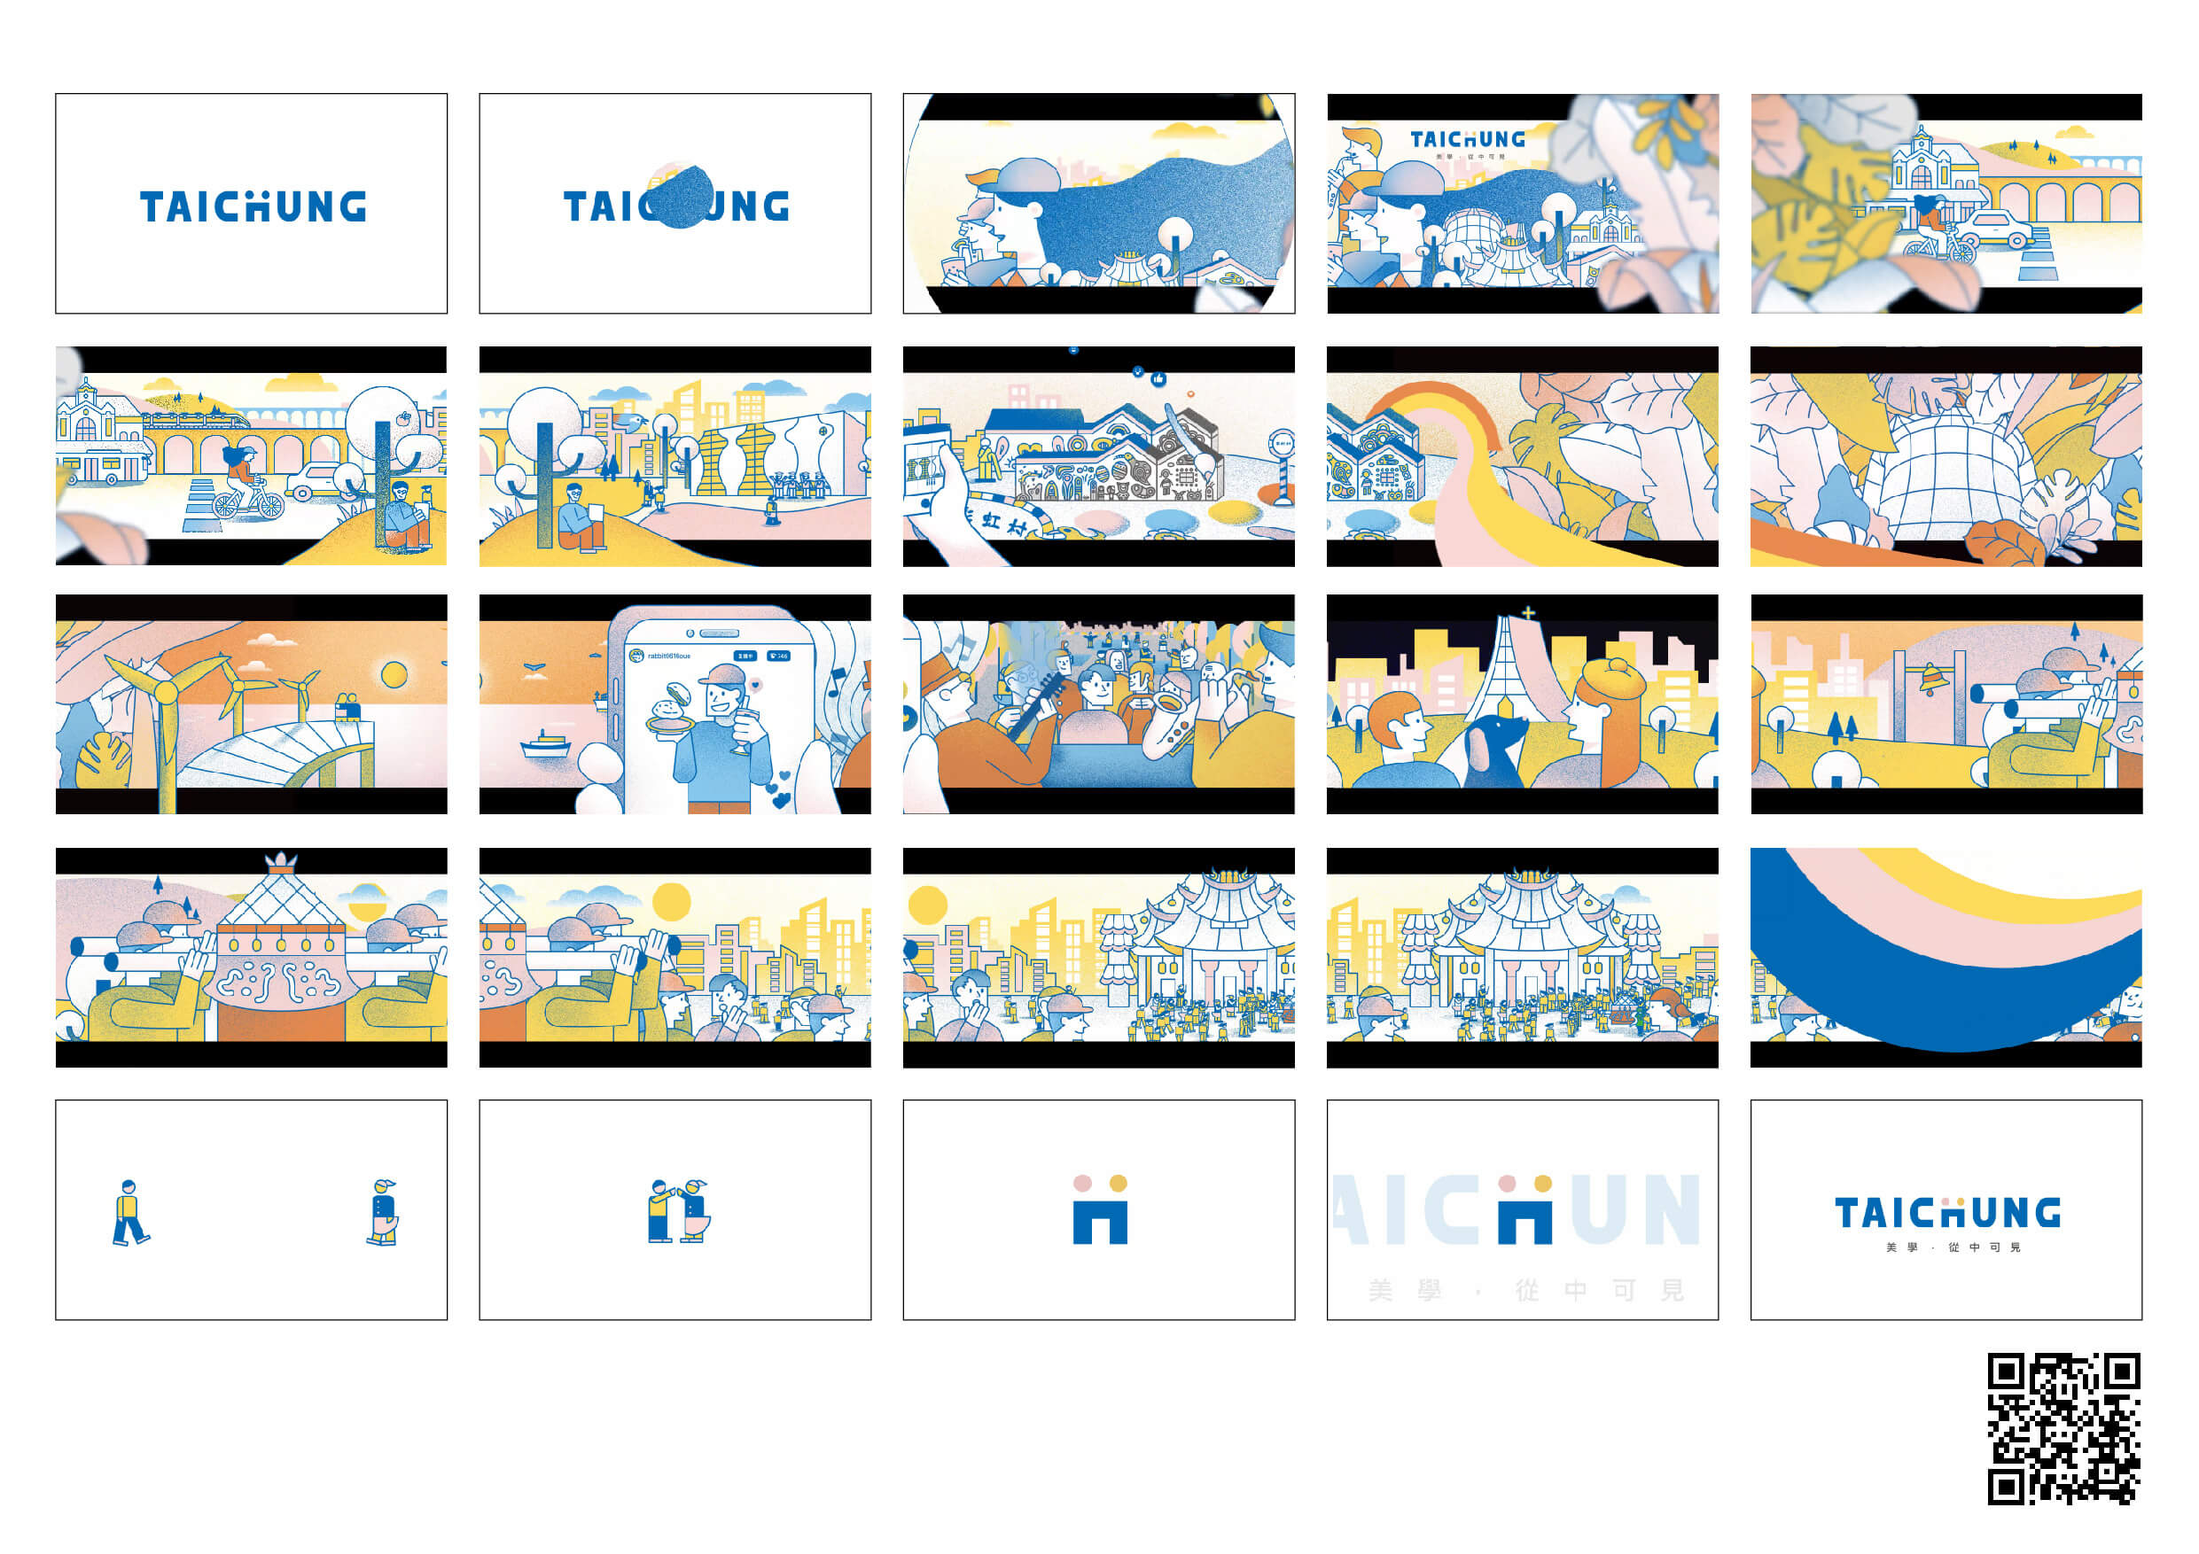
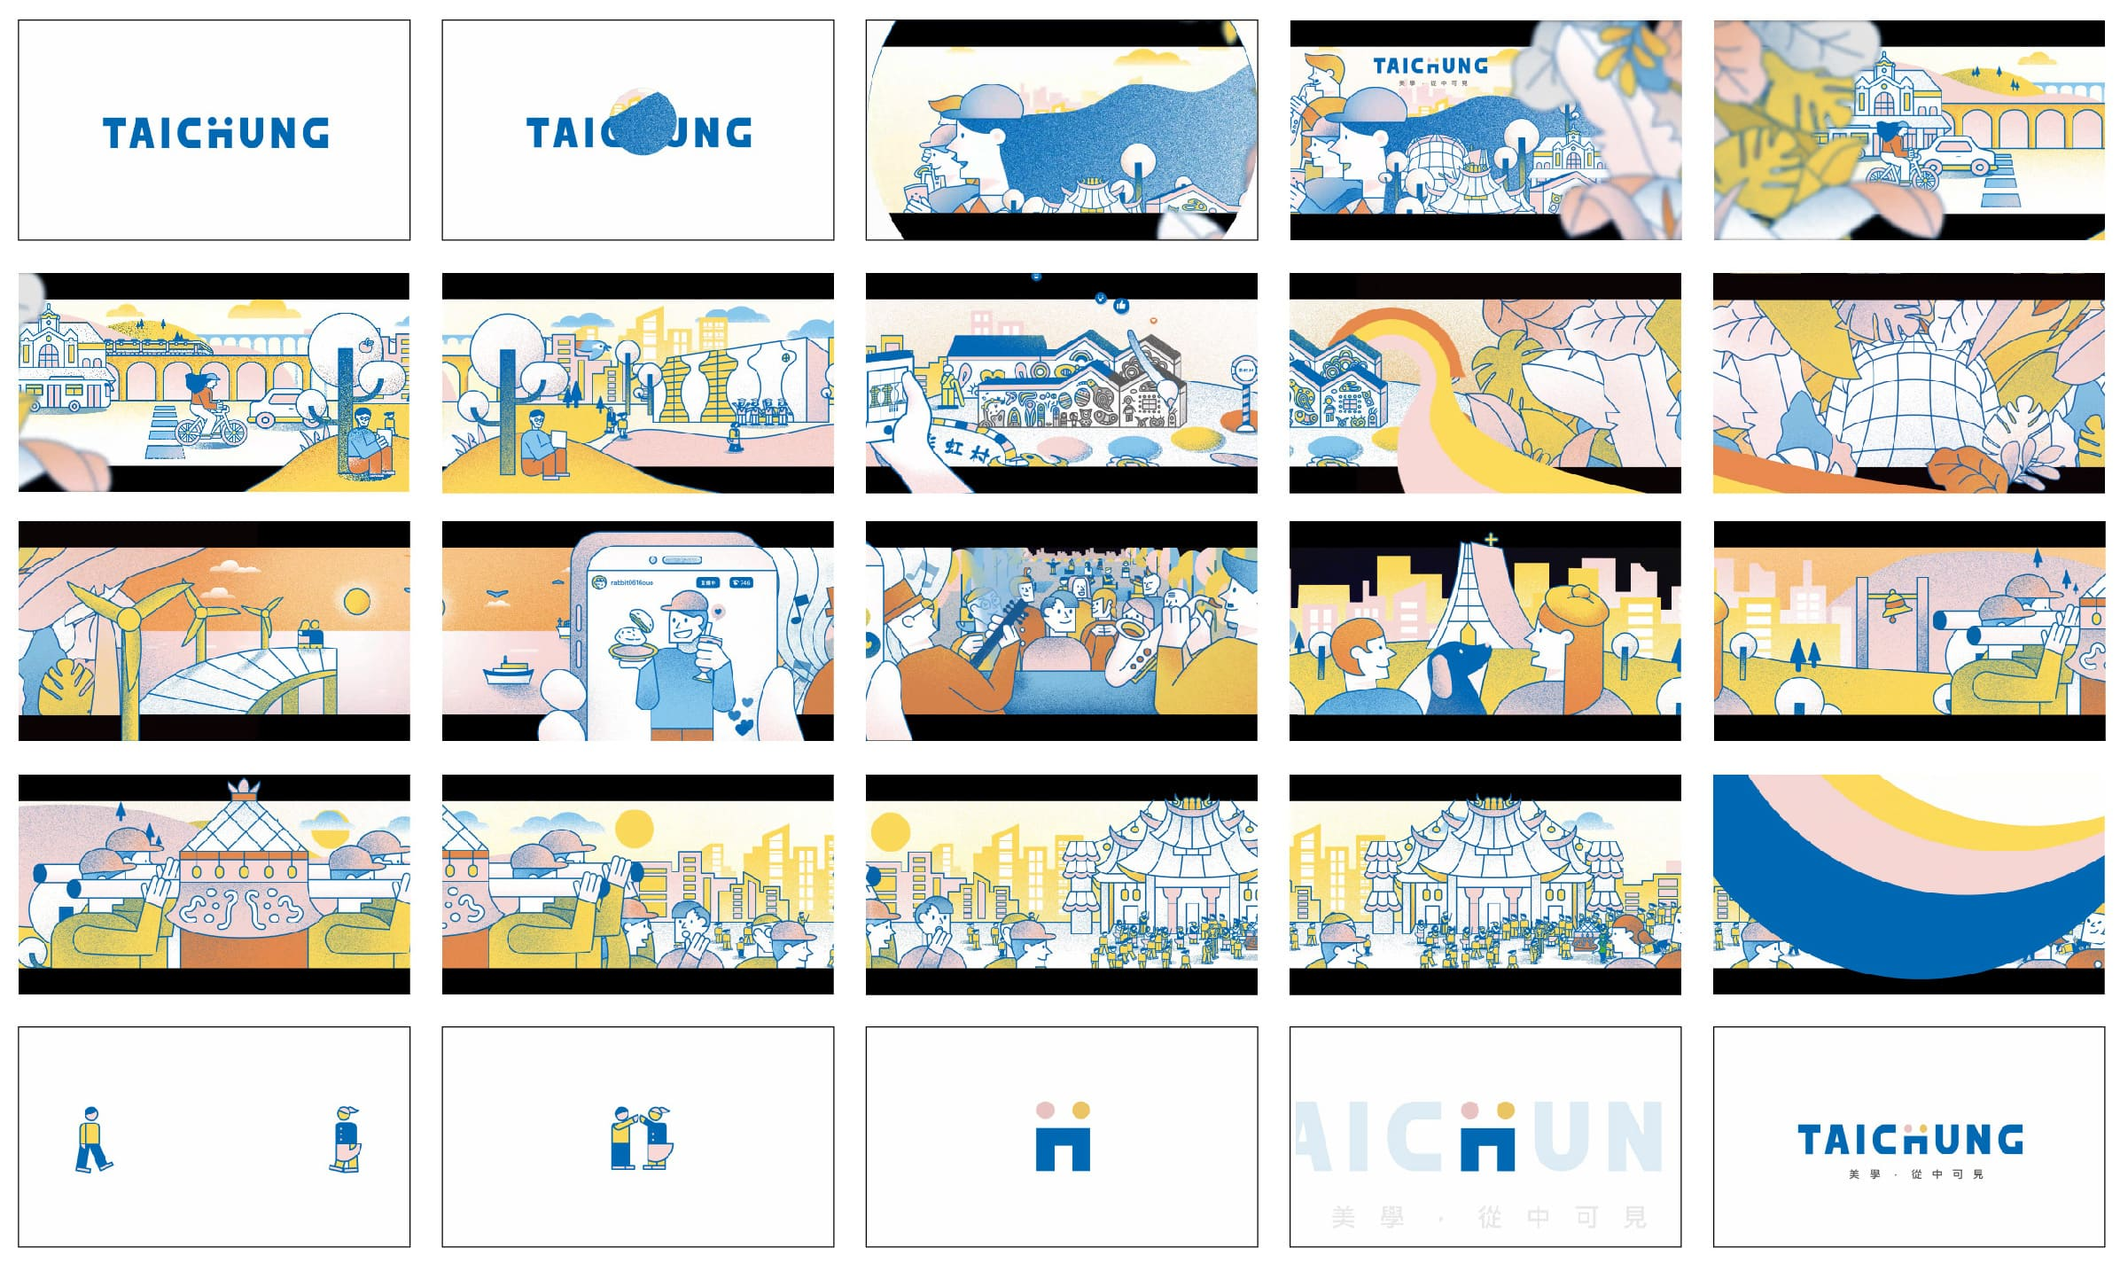
feat:修正部分文案、圖片模糊修正

diff --git a/pages/works/contents/printing2.vue b/pages/works/contents/printing2.vue
@@ -136,21 +136,16 @@
         </div>
         <div class="col-6 col-sm-10">
           <p class="fz-16-l gray2">
-            為期 1
-            年多的畢業製作過程中，我擔任團隊負責人角色，主要接收畢籌會及老師交付事項，並安排時程進度與分工細項。<br />
+            為期 1 年多的畢業製作過程中，我擔任團隊負責人角色，主要接收畢籌會及老師交付事項，並安排時程進度與分工細項。<br />
           </p>
           <p class="fz-16-l gray2 pt-16">
             從一開始大家腦力激盪、實地走訪調查並嘗試各種主題，到最後定下「為台中打造城市觀光品牌」這主題。<br />
           </p>
           <p class="fz-16-l gray2 pt-16">
-            首先我們蒐集有關台中的相關資料，組員 4 人當中有 3
-            人都是台中人，可以更加速我們了解台中意象。接著我們以 TAICHUNG
-            英文字當
-            Logo，並扣合副標「美學，從中可見。」繪製出標準字及定義色彩計畫。<br />
+            過程中，我們蒐集有關台中的相關資料，組員 4 人當中有 3 人都是台中人，可以更加速我們了解台中意象。接著我們以 TAICHUNG 英文字當 Logo，並扣合副標「美學，從中可見。」繪製出標準字及定義色彩計畫。<br />
           </p>
           <p class="fz-16-l gray2 pt-16">
-            而後我們分工同步進行，我參與繪製 Icon
-            視覺，另外組員研究影片剪輯。透過一次次的熬夜趕圖與評圖，不斷開會檢討修正方向，一轉眼到了最後參展新一代設計展與放視大賞，時間過得很快卻是最難忘且充實的一段經驗。
+            接著，我們分工同步進行，我參與繪製 Icon 視覺，另外組員研究影片剪輯。透過一次次的熬夜趕圖與評圖，不斷開會檢討修正方向，一轉眼到了最後參展新一代設計展與放視大賞，時間過得很快卻是最難忘且充實的一段經驗。
           </p>
         </div>
         <ElementImageViewer
@@ -266,13 +261,17 @@
         </div>
         <div class="col-6 col-sm-10">
           <p class="fz-16-l gray2">
-            透過畢業製作學習到時間管理的重要性，先定義出大目標再來細分小目標，在每一次評圖之前設定好完成進度並將工作項目細分、共同協作。<br />
-            過程中難免會有意見不同之時，我認為意氣用事無法解決問題，應該檢查於時間內我們可以做到哪些事，比較意見之優缺點，決定好後全力衝刺完成目標。<br />
-            雖然有許多沒被採用的點子，但這些都是珍貴的創作過程，我們從無到有一起發想分工合作，沒有留下遺憾努力到最後一刻，很高興擁有一個好團隊，更榮幸大家一起努力的成品得到紅點設計獎的肯定。<br />
+            透過畢業製作學習到時間管理的重要性，先定義出大目標、再細分小目標，在每一次評圖之前設定好完成進度並將工作項目細分、共同協作。
+          </p>
+          <p class="fz-16-l gray2 pt-16">
+            過程中難免會有意見不同時，我認為意氣用事無法解決問題，應該著重時間內我們可以做到哪些事，討論個方案的優缺點，並在決定後，全力衝刺完成目標。
+          </p>
+          <p class="fz-16-l gray2 pt-16">
+            我們從無到有一起發想分工合作，沒有留下遺憾努力到最後一刻，很高興擁有一個好團隊，更榮幸大家一起努力的成品得到德國紅點設計獎的肯定。
           </p>
           <ul class="fz-16-l gray2 pt-16">
             <ElementStarItem class="no-star">
-              <template #title>AD</template>
+              <template #title>Advisor</template>
               游明龍 Yu, Ming Lung
             </ElementStarItem>
             <ElementStarItem class="no-star">

diff --git a/pages/works/contents/management1.vue b/pages/works/contents/management1.vue
@@ -6,7 +6,7 @@
         <h2 class="fz-30-b gray1 pt-16">導入敏捷式開發專案</h2>
         <div class="pt-8">
           <ElementTag>Agile</ElementTag>
-          <ElementTag>scrum</ElementTag>
+          <ElementTag>Scrum</ElementTag>
         </div>
       </div>
     </section>
@@ -45,7 +45,7 @@
         </div>
         <div class="col ml-8">
           <div class="fz-22-m gray1">擔任角色</div>
-          <div class="fz-16-l gray2 pt-16 p-sm-0">Project Manager</div>
+          <div class="fz-16-l gray2 pt-16 p-sm-0">Project Owner</div>
         </div>
       </div>
       <div class="d-flex col-sm-10">
@@ -76,7 +76,7 @@
         <div class="col ml-8">
           <div class="fz-22-m gray1">負責項目</div>
           <div class="fz-16-l gray2 pt-16 p-sm-0">
-            設定方向｜時程規劃｜開會統籌
+            制定方向｜時程規劃｜開會統籌
           </div>
         </div>
       </div>
@@ -97,7 +97,7 @@
         </div>
         <div class="col-6 col-sm-10">
           <p class="fz-16-l gray2">
-            自我學習期間，學習到敏捷式開發，雖然所屬公司不是軟體相關產業，但沿用其精神，檢視過往的瀑布流模式過於冗長。於是開始思考新的事業體，也許可以透過流程改善來提高產出。
+            自我精進過程，我學習到敏捷式開發的模式。雖然所屬公司不是軟體相關產業，但沿用其精神，檢視過往的瀑布流模式過於冗長。於是開始思考新的事業體，也許可以透過流程改善來提高產出。
             <br />因此，我開始和同事及管理階層分享討論，並召集夥伴一起參與研究如何導入全新的敏捷式流程。
           </p>
         </div>
@@ -141,7 +141,7 @@
         <ElementStarItem>
           研究不同開發的差異 <br />
           瀑布流開發：各部門執行手中任務，照著規則一步一步執行。<br />
-          敏捷式開發：講求快速迭代從經驗中學習並及時改變策略，需提高團隊的自我管理。
+          敏捷式開發：講求快速迭代，從經驗中學習並即時改變策略，須提高團隊的自我管理。
         </ElementStarItem>
       </ul>
     </section>
@@ -151,7 +151,7 @@
       <div class="fz-22-m gray1 ml-8">02 整理分享</div>
       <ul class="fz-16-l gray2 pt-16">
         <ElementStarItem>
-          將蒐集到的資料整理統整，規劃初步進行方式，用分享的方式介紹給同事了解新的開發流程。
+          將蒐集到的資料整理統整，規劃初步進行方式，並和同事分享新的開發流程。
         </ElementStarItem>
       </ul>
       <ElementImageViewer
@@ -220,7 +220,7 @@
               設立任務卡、代辦清單，讓組員清楚了解彼此各項進度。
             </ElementStarItem>
             <ElementStarItem>
-              羅列重點時程、會議相關等資訊讓組員更方便尋找。
+              羅列重點時程、會議相關等資訊，讓組員更方便尋找。
             </ElementStarItem>
           </ul>
           <ElementImageViewer
@@ -287,8 +287,7 @@
           大家在擁有共識下，同時協作進行，減少資訊不對稱來回修正的問題，提高整體協作效率。
         </ElementStarItem>
         <ElementStarItem>
-          「敏捷開發不代表開發流程會變快」<br />
-          敏捷開發方法是一個快速迭代的過程，目前已完成第一次實作，期望透過每次的迭代都能讓團隊針對過去誤區進行更正。
+          「敏捷開發不代表開發流程會變快」敏捷開發方法是一個快速迭代的過程，目前已完成第一次實作，期望透過每次的迭代都能讓團隊針對過去誤區進行更正。
         </ElementStarItem>
       </ul>
     </section>

diff --git a/pages/works/contents/commerce1.vue b/pages/works/contents/commerce1.vue
@@ -98,10 +98,7 @@
           <div class="col fz-22-m gray1 ml-8">活動目標</div>
         </div>
         <div class="col-6 col-sm-10 fz-16-l gray2">
-          因應過年推出的促銷活動，透過 FB 與 Google DBM
-          素材促使消費者點擊進站，官網 Banner
-          與課程頁面皆有活動促銷圖，右側有浮動按鈕，讓消費者了解目前的活動促銷內容。
-          透過廣告素材限時促銷字眼吸引消費者進站，達到促銷目的。
+          因應過年推出的促銷活動，透過 FB 與 Google DBM 素材促使消費者點擊進站，官網 Banner 與課程頁面皆有活動促銷圖，右側有浮動按鈕，讓消費者了解目前的活動促銷內容。透過廣告素材限時促銷字眼吸引消費者進站，達到促銷目的。
         </div>
       </div>
     </section>
@@ -200,10 +197,7 @@
         </div>
         <div class="col-6 col-sm-10">
           <p class="fz-16-l gray2">
-            廣告是活動最前線，除附圖的 FB 廣告素材外另有 Google DBM
-            素材進行廣告投放。製作 FB 促銷模板後將各課程素材套用，於 FB
-            投放各課程優惠資訊，針對不同 TA 透放相對應課程，並以顯眼的 666
-            優惠文案吸引消費者點擊進站。
+            廣告是活動最前線，除了附圖的 FB 廣告素材外，另有 Google DBM 素材進行廣告投放。製作 FB 促銷模板後，將此素材套用各課程商品，於 FB 投放各課程優惠資訊，針對不同 TA 投放符合用戶興趣的課程，並以顯眼的 666 優惠文案吸引消費者點擊進站購買。
           </p>
         </div>
       </div>

diff --git a/pages/works/contents/commerce2.vue b/pages/works/contents/commerce2.vue
@@ -124,11 +124,10 @@
         </div>
         <div class="col-6 col-sm-10">
           <p class="fz-16-l gray2">
-            菜鳥救星主要銷售各式線上真人直播課程，商品課程視覺相當於該產品的門面，搭配文案以吸睛的視覺做呈現。在進入設計製作之前需要先了解課程大綱，與老師及企劃開會討論，通常是課程的風格或是文案的關鍵字進行設計。
+            菜鳥救星主要銷售各式線上真人直播課程，商品課程視覺相當於該產品的門面，搭配文案以吸睛的視覺做呈現。在進入設計製作之前需要先了解課程大綱，與老師及企劃開會討論課程風格、並針對文案關鍵字進行設計討論。
           </p>
           <p class="fz-16-l gray2 mt-16">
-            廣告素材以主視覺風格延伸進行廣告投遞，吸引相關 TA
-            點擊進站瀏覽更多詳細內容進行購買。
+            廣告素材以主視覺風格延伸進行廣告投放，吸引相關 TA 點擊進站瀏覽更多詳細內容並進行購買。
           </p>
         </div>
       </div>
@@ -149,7 +148,7 @@
         </div>
         <div class="col-6 col-sm-10">
           <p class="fz-16-l gray2">
-            企劃會初步整理主題及文案，與設計一同發想並討論設計進一步延伸，搜集相關素材、並構想主視覺
+            企劃會初步整理主題及文案，與設計一同發想並討論設計進一步延伸，搜集相關素材、並構想主視覺。
           </p>
           <ElementTag :class="'mt-30'">企劃提案</ElementTag>
           <ul class="fz-16-l gray2 pt-16">

diff --git a/pages/works/contents/commerce3.vue b/pages/works/contents/commerce3.vue
@@ -120,7 +120,7 @@
         </div>
         <div class="col-6 col-sm-10">
           <p class="fz-16-l gray2">
-            企劃會初步整理主題及文案，與設計一同發想並討論設計進一步延伸，搜集相關素材、並構想主視覺
+            企劃會初步整理主題及文案，與設計一同發想並討論設計進一步延伸，搜集相關素材、並構想主視覺。
           </p>
           <ElementTag :class="'mt-30'">企劃提案</ElementTag>
           <ul class="fz-16-l gray2 pt-16">
@@ -173,7 +173,7 @@
         </div>
         <div class="col-6 col-sm-10">
           <p class="fz-16-l gray2">
-            將老師繪製的女孩去背當主圖，背景以分鏡的方式搭配鮮明的色彩呈現漫畫多采多姿、天馬行空意象。並以日系風格搭配黑框呈現字體。
+            運用老師繪製的角色作為主視覺，背景以分鏡的方式搭配鮮明的色彩，呈現漫畫多采多姿、天馬行空意象，並以日系風格搭配黑框呈現字體。
           </p>
         </div>
       </div>

diff --git a/pages/works/contents/ui2.vue b/pages/works/contents/ui2.vue
@@ -256,8 +256,7 @@
       <ElementTag :class="'mt-30'">2. 制定 Design System</ElementTag>
       <ul class="fz-16-l gray2 pt-16">
         <ElementStarItem>
-          依蒐集素材參考風格後選定台鐵藍以及帶有交通便捷的綠，輔色則以淡藍色當背景。制定規範好色彩計畫級字型字級，並
-          將常用元素制定成元件，除了可以加速作業，同時審視是否風格一致，期望使用者於產品中擁有一致且良好的體驗。
+          依蒐集素材參考風格後選定台鐵藍以及帶有交通便捷的綠，輔色則以淡藍色當背景。制定規範好色彩計畫級字型字級，並將常用元素制定成元件，除了可以加速作業，同時審視是否風格一致，期望使用者於產品中擁有一致且良好的體驗。
         </ElementStarItem>
       </ul>
       <div class="pt-60">

diff --git a/pages/works/contents/printing1.vue b/pages/works/contents/printing1.vue
@@ -97,8 +97,7 @@
         </div>
         <div class="col-6 col-sm-10">
           <p class="fz-16-l gray2">
-            每年皆會舉辦學員作品競賽，優秀者可獲得獎金及精裝年鑑。
-            精裝及打凹樣式提高整本書籍珍貴感，收錄所有優勝者作品參賽選手可當獎品紀念外，分校同仁於招生介紹時也能達到行銷推廣作用。
+            每年皆會舉辦學員作品競賽，優秀者可獲得獎金及精裝年鑑。透過精裝及打凹樣式提高整本書籍珍貴感，收錄所有優勝者作品參賽選手可當獎品紀念外，分校同仁於招生介紹時也能達到行銷推廣作用。
           </p>
         </div>
       </div>

diff --git a/components/WorkItem/Management1.vue b/components/WorkItem/Management1.vue
@@ -27,7 +27,7 @@
       <h2 class="fz-30-b gray1 pt-16">導入敏捷式開發專案</h2>
       <div class="pt-16">
         <ElementTag>Agile</ElementTag>
-        <ElementTag>scrum</ElementTag>
+        <ElementTag>Scrum</ElementTag>
       </div>
       <div class="mt-80 mb-60 mt-sm-40 mb-sm-10">
         <ElementBtn :tag="'span'" class="more-btn">
